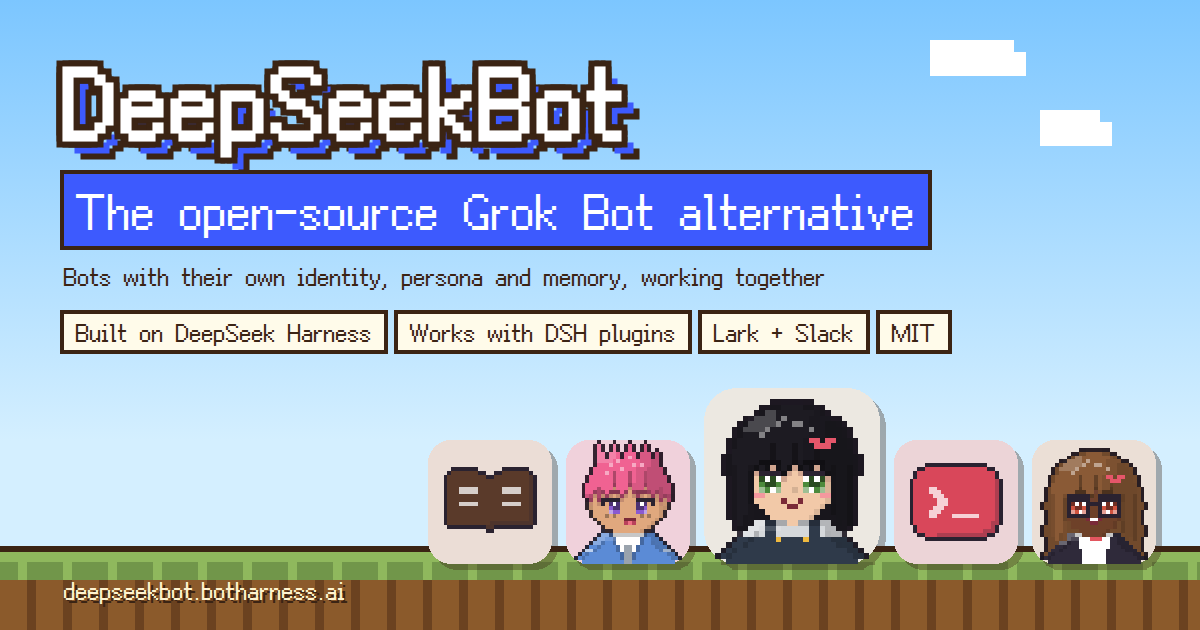
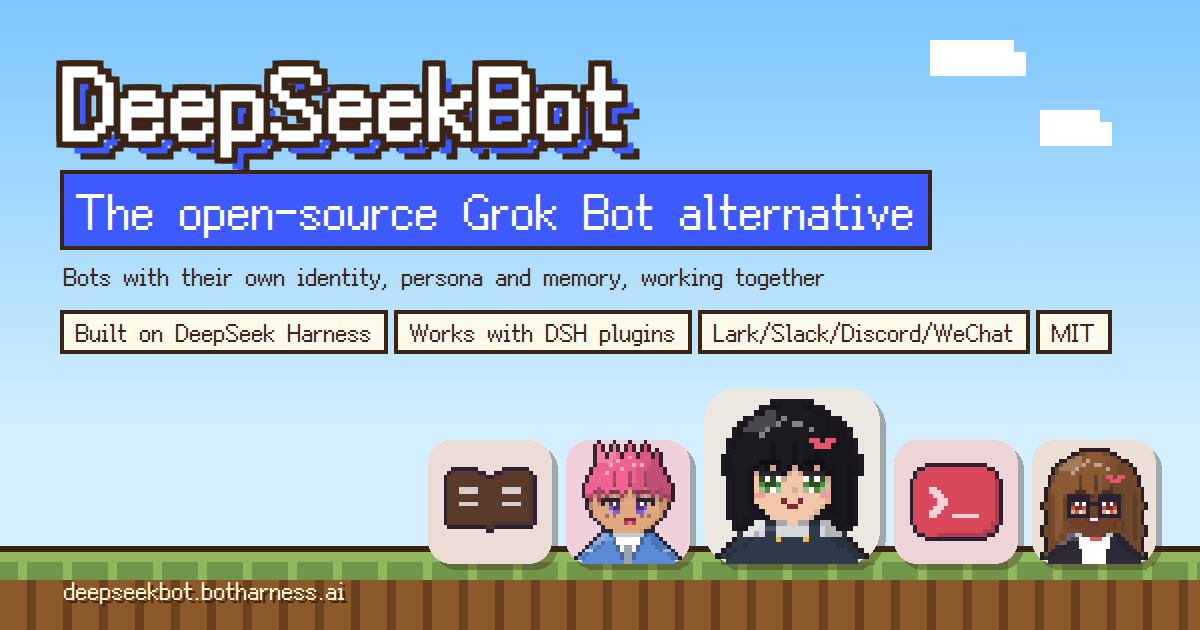
List Discord and WeChat, and GitHub-shared memory
Both IM platforms are connected, and memory can be shared through GitHub,
so the site and share cards say so instead of marking them in testing.

Claude-Session: https://claude.ai/code/session_01DRaC6kt1DRnaSn2ApqPafT

Changed region(s): [[0.6167, 0.4825, 0.925, 0.573]]

diff --git a/src/content.ts b/src/content.ts
@@ -123,7 +123,7 @@ const zh: Copy = {
       'GrokBot 的开源平替',
       '基于 DeepSeek Harness',
       '兼容其他 DSH 插件',
-      '连接飞书 / Slack',
+      '连接飞书 / Slack / Discord / 微信',
       'MIT 开源',
     ],
   },
@@ -158,7 +158,7 @@ const zh: Copy = {
       {
         icon: 'read',
         title: '看得见的 Git Memory',
-        body: 'Bot 的记忆是一个普通 Git 工作树。在侧栏浏览记忆文件、分支、commit 历史与 diff，也能用你自己的编辑器和 Git 工具。',
+        body: 'Bot 的记忆是一个普通 Git 工作树。在侧栏浏览记忆文件、分支、commit 历史与 diff，也能推到 GitHub，在多台机器之间共享同一份记忆。',
       },
       {
         icon: 'subagent',
@@ -173,8 +173,7 @@ const zh: Copy = {
       {
         icon: 'web',
         title: '自己的 IM 身份',
-        body: '在飞书 / Lark 与 Slack 绑定 Bot 自己的应用身份，被 @ 时在原话题里回复。只有你授权过的群和频道才会进入 Bot 的 Inbox。',
-        tag: 'Discord 验证中',
+        body: '在飞书 / Lark、Slack、Discord 和微信里绑定 Bot 自己的身份，被 @ 时在原话题里回复。只有你授权过的群和频道才会进入 Bot 的 Inbox。',
       },
       {
         icon: 'bash',
@@ -203,7 +202,7 @@ const zh: Copy = {
     copy: '复制',
     copied: '已复制',
     after:
-      '打开后进入 Bot mode，创建 PersonaBot，先私聊，再建 Group 邀请成员。要接入飞书或 Slack，到「设置 → IM bots」连接应用，再在 Bot 的 Profile 里绑定身份、授权群组。',
+      '打开后进入 Bot mode，创建 PersonaBot，先私聊，再建 Group 邀请成员。要接入飞书、Slack、Discord 或微信，到「设置 → IM bots」连接应用，再在 Bot 的 Profile 里绑定身份、授权群组。',
     note: '这是 Alpha 预览版本，发布在 npm 的 next 标签。想先试试又不想动现有配置，可以换一个新的 Profile 名字。',
   },
   footer: {
@@ -233,7 +232,7 @@ const en: Copy = {
       'Open-source Grok Bot alternative',
       'Built on DeepSeek Harness',
       'Works with other DSH plugins',
-      'Connects to Lark and Slack',
+      'Lark, Slack, Discord and WeChat',
       'MIT licensed',
     ],
   },
@@ -268,7 +267,7 @@ const en: Copy = {
       {
         icon: 'read',
         title: 'Git Memory you can see',
-        body: 'A Bot’s memory is a plain Git working tree. Browse its files, branches, commits and diffs in the sidebar, or use your own editor and Git tools.',
+        body: 'A Bot’s memory is a plain Git working tree. Browse its files, branches, commits and diffs in the sidebar, or push it to GitHub to share the same memory across machines.',
       },
       {
         icon: 'subagent',
@@ -283,8 +282,7 @@ const en: Copy = {
       {
         icon: 'web',
         title: 'Their own IM identity',
-        body: 'Bind a Bot to its own app identity in Lark / Feishu and Slack, and it replies in the original thread when mentioned. Only groups and channels you authorize reach its Inbox.',
-        tag: 'Discord in testing',
+        body: 'Bind a Bot to its own identity in Lark / Feishu, Slack, Discord and WeChat, and it replies in the original thread when mentioned. Only groups and channels you authorize reach its Inbox.',
       },
       {
         icon: 'bash',
@@ -318,7 +316,7 @@ const en: Copy = {
     copy: 'Copy',
     copied: 'Copied',
     after:
-      'Open Bot mode, create a PersonaBot, DM it, then start a Group and invite members. To use Lark or Slack, connect the app in Settings → IM bots, then bind the identity and authorize a group in the Bot’s Profile.',
+      'Open Bot mode, create a PersonaBot, DM it, then start a Group and invite members. To use Lark, Slack, Discord or WeChat, connect the app in Settings → IM bots, then bind the identity and authorize a group in the Bot’s Profile.',
     note: 'This is an alpha preview on the npm next tag. To try it without touching your current setup, use a new Profile name.',
   },
   footer: {

diff --git a/en/index.html b/en/index.html
@@ -6,11 +6,11 @@
     <title>DeepSeekBot: the open-source Grok Bot alternative for DeepSeek Harness</title>
     <meta
       name="description"
-      content="A crew of AI bots, each with its own identity, persona and Git memory. DM them, put them in groups, delegate work, and let them reply in Lark and Slack as themselves. Built on DeepSeek Harness, works with other DSH plugins, MIT open source."
+      content="A crew of AI bots, each with its own identity, persona and Git memory. DM them, put them in groups, delegate work, and let them reply in Lark, Slack, Discord and WeChat as themselves. Built on DeepSeek Harness, works with other DSH plugins, MIT open source."
     />
     <meta
       name="keywords"
-      content="DeepSeekBot, DeepSeek Harness, DSH plugin, Grok Bot alternative, AI agents, open source, Lark bot, Slack bot, BotHarness"
+      content="DeepSeekBot, DeepSeek Harness, DSH plugin, Grok Bot alternative, AI agents, open source, Lark bot, Slack bot, Discord bot, WeChat bot, BotHarness"
     />
     <link rel="canonical" href="https://deepseekbot.botharness.ai/en/" />
     <link rel="alternate" hreflang="zh-CN" href="https://deepseekbot.botharness.ai/" />
@@ -24,7 +24,7 @@
     <meta property="og:title" content="DeepSeekBot: the open-source Grok Bot alternative" />
     <meta
       property="og:description"
-      content="Bots with their own identity, persona and memory, working together. Built on DeepSeek Harness, works with other DSH plugins, connects to Lark and Slack. MIT open source."
+      content="Bots with their own identity, persona and memory, working together. Built on DeepSeek Harness, works with other DSH plugins, connects to Lark, Slack, Discord and WeChat. MIT open source."
     />
     <meta property="og:locale" content="en_US" />
     <meta property="og:locale:alternate" content="zh_CN" />
@@ -40,7 +40,7 @@
     <meta name="twitter:title" content="DeepSeekBot: the open-source Grok Bot alternative" />
     <meta
       name="twitter:description"
-      content="Bots with their own identity, persona and memory, working together. Built on DeepSeek Harness, works with other DSH plugins, connects to Lark and Slack. MIT open source."
+      content="Bots with their own identity, persona and memory, working together. Built on DeepSeek Harness, works with other DSH plugins, connects to Lark, Slack, Discord and WeChat. MIT open source."
     />
     <meta name="twitter:image" content="https://deepseekbot.botharness.ai/og-en.png" />
     <meta
@@ -53,7 +53,7 @@
         "@type": "SoftwareApplication",
         "name": "DeepSeekBot",
         "url": "https://deepseekbot.botharness.ai/en/",
-        "description": "A crew of AI bots, each with its own identity, persona and Git memory. DM them, put them in groups, delegate work, and let them reply in Lark and Slack as themselves. Built on DeepSeek Harness, works with other DSH plugins, MIT open source.",
+        "description": "A crew of AI bots, each with its own identity, persona and Git memory. DM them, put them in groups, delegate work, and let them reply in Lark, Slack, Discord and WeChat as themselves. Built on DeepSeek Harness, works with other DSH plugins, MIT open source.",
         "applicationCategory": "DeveloperApplication",
         "operatingSystem": "macOS, Linux, Windows (Node.js 22+)",
         "softwareVersion": "0.1.0-alpha.1",

diff --git a/index.html b/index.html
@@ -6,11 +6,11 @@
     <title>DeepSeekBot：开源的 GrokBot 平替，基于 DeepSeek Harness</title>
     <meta
       name="description"
-      content="DeepSeekBot 是一组有各自身份、人格和记忆的 AI bots：像同事一样私聊、拉群协作、委派任务，还能以自己的身份在飞书和 Slack 里回复。基于 DeepSeek Harness，兼容其他 DSH 插件，MIT 完全开源。"
+      content="DeepSeekBot 是一组有各自身份、人格和记忆的 AI bots：像同事一样私聊、拉群协作、委派任务，还能以自己的身份在飞书、Slack、Discord 和微信里回复。基于 DeepSeek Harness，兼容其他 DSH 插件，MIT 完全开源。"
     />
     <meta
       name="keywords"
-      content="DeepSeekBot, DeepSeek Harness, DSH 插件, GrokBot 平替, AI agent, 开源, 飞书机器人, Slack bot, BotHarness"
+      content="DeepSeekBot, DeepSeek Harness, DSH 插件, GrokBot 平替, AI agent, 开源, 飞书机器人, Slack bot, Discord bot, 微信机器人, BotHarness"
     />
     <link rel="canonical" href="https://deepseekbot.botharness.ai/" />
     <link rel="alternate" hreflang="zh-CN" href="https://deepseekbot.botharness.ai/" />
@@ -24,7 +24,7 @@
     <meta property="og:title" content="DeepSeekBot：开源的 GrokBot 平替" />
     <meta
       property="og:description"
-      content="一组有各自身份、人格和记忆的 bots，一起做事。基于 DeepSeek Harness，兼容其他 DSH 插件，可连接飞书与 Slack，MIT 开源。"
+      content="一组有各自身份、人格和记忆的 bots，一起做事。基于 DeepSeek Harness，兼容其他 DSH 插件，可连接飞书、Slack、Discord 和微信，MIT 开源。"
     />
     <meta property="og:locale" content="zh_CN" />
     <meta property="og:locale:alternate" content="en_US" />
@@ -40,7 +40,7 @@
     <meta name="twitter:title" content="DeepSeekBot：开源的 GrokBot 平替" />
     <meta
       name="twitter:description"
-      content="一组有各自身份、人格和记忆的 bots，一起做事。基于 DeepSeek Harness，兼容其他 DSH 插件，可连接飞书与 Slack，MIT 开源。"
+      content="一组有各自身份、人格和记忆的 bots，一起做事。基于 DeepSeek Harness，兼容其他 DSH 插件，可连接飞书、Slack、Discord 和微信，MIT 开源。"
     />
     <meta name="twitter:image" content="https://deepseekbot.botharness.ai/og-zh.png" />
     <meta
@@ -53,7 +53,7 @@
         "@type": "SoftwareApplication",
         "name": "DeepSeekBot",
         "url": "https://deepseekbot.botharness.ai/",
-        "description": "DeepSeekBot 是一组有各自身份、人格和记忆的 AI bots：像同事一样私聊、拉群协作、委派任务，还能以自己的身份在飞书和 Slack 里回复。基于 DeepSeek Harness，兼容其他 DSH 插件，MIT 完全开源。",
+        "description": "DeepSeekBot 是一组有各自身份、人格和记忆的 AI bots：像同事一样私聊、拉群协作、委派任务，还能以自己的身份在飞书、Slack、Discord 和微信里回复。基于 DeepSeek Harness，兼容其他 DSH 插件，MIT 完全开源。",
         "applicationCategory": "DeveloperApplication",
         "operatingSystem": "macOS, Linux, Windows (Node.js 22+)",
         "softwareVersion": "0.1.0-alpha.1",
